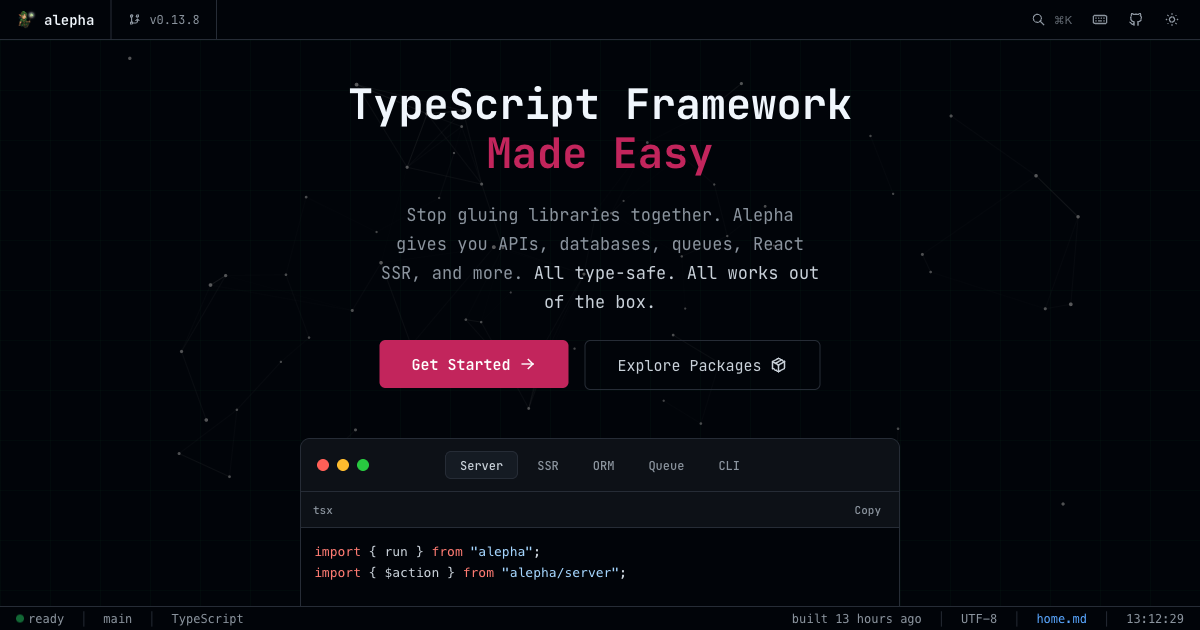
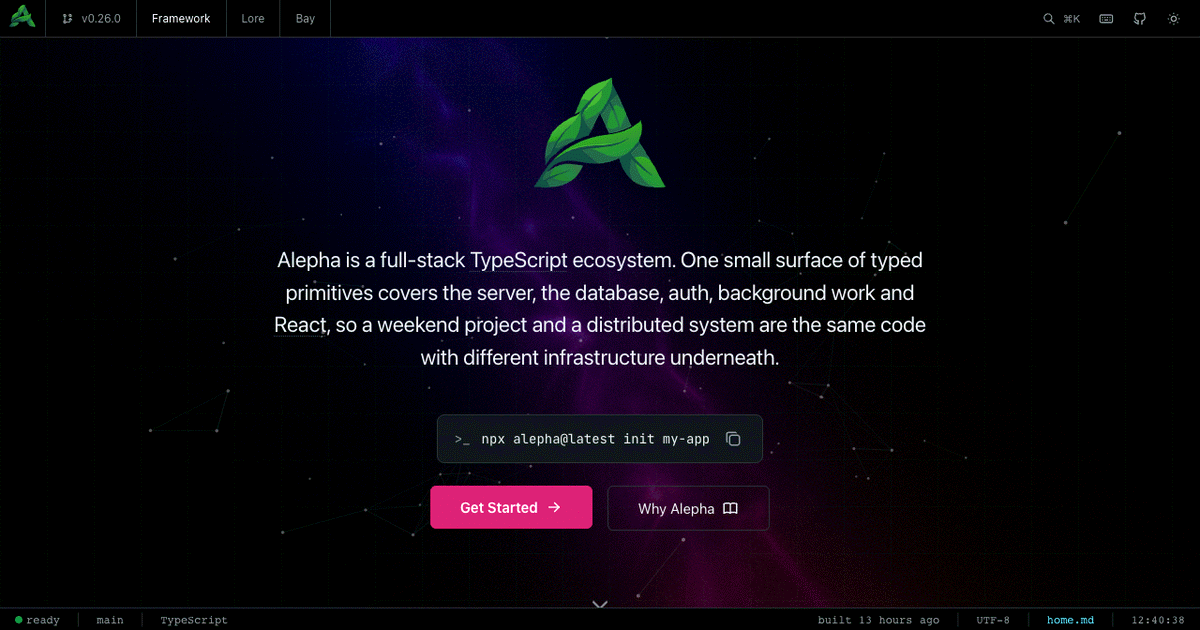
docs: refresh the public surfaces the site rework left behind
The front page changed what Alepha is; nothing that describes it from the
outside followed.

**One tagline.** There were five in circulation: the README said "One
full-stack TypeScript framework. No glue.", the hero said "ecosystem", the
introduction guide said "application engine", npm and GitHub still carried
the retired "Easy-to-use modern TypeScript framework for building many kind
of applications", and og-image.png had "TypeScript Framework Made Easy"
baked into it. All of them now read "A full-stack TypeScript ecosystem. No
glue." — ecosystem, because the nav has three products under it. The
`package.json` description feeds the generated packages page, hence the
change under docs/framework.

**One README, describing the current thing.** Both copies gain the three
products, the admin panel, service substitution and `platform up` — four of
the ten home-page blocks that had no mention anywhere outside the site — and
the Admin layer the architecture table was missing.

**og-image.png** was a screenshot of the v0.13.8 home page, complete with an
"Explore Packages" button that no longer exists. Retaken. Captured at
1280x672 rather than 1200x630 because the light pillar is gated at
`min-width: 1280px`, then downscaled; the ratio is identical.

**The Bay installer exists now.** The Bay page has been telling people to
run `curl -sSL https://alepha.dev/bay/install.sh | sh` against a URL that
404s, so the shell was being fed an HTML error page. `release.yml` already
[…]

diff --git a/apps/docs/src/AppRouter.tsx b/apps/docs/src/AppRouter.tsx
@@ -30,12 +30,16 @@ export class AppRouter {
   sitemap = $sitemap({ hostname: this.env.PUBLIC_URL });
 
   head = $head(() => {
-    const ogTitle = "Alepha — One full-stack TypeScript framework. No glue.";
+    // "ecosystem", not "framework": the nav has three products under it, and
+    // the hero says the same word. This string is the one social unfurlers and
+    // search results show, so it is the tagline that has to agree with the
+    // README, the npm description and the repository description.
+    const ogTitle = "Alepha | A full-stack TypeScript ecosystem. No glue.";
     const head: Head = {
       title: "Alepha",
       titleSeparator: " | ",
       description:
-        "Alepha is a full-stack TypeScript framework built for the agentic era — a clean rewrite of server, ORM, auth, queues, and React SSR for Node, Bun, and Cloudflare. No library glue.",
+        "Alepha is a full-stack TypeScript ecosystem built for the agentic era: a clean rewrite of server, ORM, auth, queues, and React SSR for Node, Bun, and Cloudflare. No library glue.",
       image: `${this.env.PUBLIC_URL}/og-image.png`,
       siteName: "Alepha",
       locale: "en_US",
@@ -70,10 +74,24 @@ export class AppRouter {
           href: "/apple-touch-icon.png",
         },
       ],
+      // One `theme-color` per scheme, so the phone's address bar matches the
+      // page it is framing instead of guessing. Both values are `--color-bg`
+      // from `variables.css`; the dark one is also `background_color` /
+      // `theme_color` in `public/manifest.json`, which has no light variant to
+      // give it. Keep all three in step.
+      //
+      // These were a single `#1a1a2e` for a long time — a colour from a
+      // palette this site no longer uses, which appears in no stylesheet.
       meta: [
         {
           name: "theme-color",
-          content: "#1a1a2e",
+          content: "#ffffff",
+          media: "(prefers-color-scheme: light)",
+        },
+        {
+          name: "theme-color",
+          content: "#010409",
+          media: "(prefers-color-scheme: dark)",
         },
       ],
     };
@@ -124,7 +142,7 @@ export class AppRouter {
     label: "Home",
     static: true,
     head: () => ({
-      title: "One full-stack TypeScript framework. No glue.",
+      title: "A full-stack TypeScript ecosystem. No glue.",
     }),
   });
 

diff --git a/apps/docs/scripts/check-docs.ts b/apps/docs/scripts/check-docs.ts
@@ -43,8 +43,14 @@ export class CheckDocsCommand {
 
   /**
    * Documentation that lives outside `docs/`, in reach order: the repository
-   * front page, the page npm renders, and the template an AI assistant is
-   * handed when a project is scaffolded.
+   * front page, the page npm renders, and the framework brief an AI assistant
+   * reads out of `node_modules` — `release.yml` copies that last one to
+   * `packages/alepha/AGENTS.md` and `CLAUDE.md` on the way to the registry.
+   *
+   * Not to be confused with `cli/core/templates/agentMd.ts`, which is the
+   * per-project brief `alepha init` writes into a scaffolded app. Different
+   * document, different audience, and being a `.ts` file it is out of reach
+   * of this check.
    */
   protected readonly extraDocs = [
     "README.md",

diff --git a/README.md b/README.md
@@ -9,7 +9,7 @@
 />
 Alepha
 </h1>
-<p>One full-stack TypeScript framework. No glue.</p>
+<p>A full-stack TypeScript ecosystem. No glue.</p>
 <a href="https://www.npmjs.com/package/alepha"><img src="https://img.shields.io/npm/v/alepha.svg" alt="npm version"/></a>
 <a href="https://www.npmjs.com/package/alepha"><img src="https://img.shields.io/npm/l/alepha.svg" alt="license"/></a>
 <a href="https://codecov.io/gh/feunard/alepha"><img src="https://codecov.io/gh/feunard/alepha/graph/badge.svg?token=ZDLWI514CP" alt="coverage"/></a>
@@ -18,20 +18,30 @@ Alepha
 
 ## What is Alepha?
 
-Alepha is a full-stack TypeScript framework built for the agentic era.
+Alepha is a full-stack TypeScript ecosystem built for the agentic era.
 
 Everything between your code and the runtime (HTTP server, routing, auth, queues, storage, jobs, SSR) is rewritten clean and integrated for Node, Bun, and Cloudflare Workers. Two load-bearing layers are deliberately *not* reinvented: **React** for UI and **Drizzle** for SQL. No library glue, no config sprawl: one small, consistent surface of typed primitives.
 
-That small surface is the point. AI coding agents (Claude Code, Codex) work best against a narrow, predictable API, so they generate predictable, consistent code you can actually review.
+One small surface covers the server, the database, auth, background work and React, so a weekend project and a distributed system are the same code with different infrastructure underneath.
 
 - **One schema, everywhere**: database, API validation, TypeScript types and React forms, all from one definition
 - **One surface**: every feature is a typed `$primitive`. No third-party glue to wire up or keep in sync
 - **Multi-runtime**: the same code runs on Node, Bun, and Cloudflare Workers
 - **Deploy anywhere**: Cloudflare, Vercel, Docker, bare metal
 
+## Three products, one repository
+
+Everything below is MIT, and all of it is developed in this repository. Lore and Bay are not demos: they are the applications that keep the framework honest, and a fix that surfaces while building them lands in the same commit.
+
+| | | |
+|---|---|---|
+| **Alepha Framework** | The framework itself, on npm as [`alepha`](https://www.npmjs.com/package/alepha) | [alepha.dev](https://alepha.dev) |
+| **Alepha Lore** | Project management, for agents too: quests, folios, feedback and crash telemetry, every one of them readable and writable over MCP | [alepha.dev/lore](https://alepha.dev/lore) |
+| **Alepha Bay** | A self-hosted application server. One small Go binary that gives an Alepha app TLS, backups and process isolation on a machine you own | [alepha.dev/bay](https://alepha.dev/bay) |
+
 ## Architecture
 
-Each layer builds on the previous. Use only what you need.
+Each layer builds on the previous. Use only what you need: Foundation alone is enough for a CLI tool.
 
 | Layer          | Description | Primitives                                              |
 |----------------|-------------|---------------------------------------------------------|
@@ -39,6 +49,7 @@ Each layer builds on the previous. Use only what you need.
 | **Backend**    | Database, storage, API | `$entity`, `$relations`, `$repository`, `$action`, `$storage` |
 | **Frontend**   | React with SSR, routing, i18n | `$page`, `$head`, `$atom`, `$dictionary`                |
 | **Platform**   | Users, auth, jobs, audits | `$realm`, `$job`, `$audit`, `$notification`             |
+| **Admin**      | Admin panel and auth UI | `$pageAdmin`, `$pageAccount`, `$pageNav`                |
 
 ## Built for agents
 
@@ -101,6 +112,59 @@ export class AppRouter {
 
 The `Api` class is the only contract. `$client<Api>()` derives every call site from it. Change a handler's return type and the page stops compiling.
 
+## The admin panel you did not build
+
+Users, roles, sessions, API keys, connected apps, an audit trail, every `$job` with its schedule and its last run, and runtime configuration editable from the browser with history and a factory reset. Sign-in, registration and password reset are generated from the realm settings.
+
+It comes from declaring `$realm` and mounting the admin pages, in both light and dark. Screenshots on [alepha.dev](https://alepha.dev/#admin).
+
+## Swap anything, even time
+
+Nothing in the framework is sealed. Every provider is a class in the container, so a test replaces the one it does not want and leaves the rest running for real. There are 14 `Memory*Provider` classes for the I/O-bound ones, and the clock is one of them.
+
+```ts
+const alepha = Alepha.create()
+  .with({ provide: EmailProvider, use: MemoryEmailProvider });
+
+const email = alepha.inject(MemoryEmailProvider);
+const time = alepha.inject(DateTimeProvider);
+await alepha.start();
+
+await time.travel([1, "day"]);
+
+expect(email.records).toHaveLength(1);
+```
+
+Cron is anchored to the same clock, so the scheduled `$job` runs during the jump. The test does not wait, and the mail never left the process.
+
+## Deploy with one command
+
+Declare an environment, and `alepha platform up` authenticates, provisions what does not exist yet, builds, runs migrations, deploys and pushes secrets, in that order. The database, the bucket and the queue are not yours to create, and neither is the pipeline that would have created them.
+
+```ts
+// alepha.config.ts
+export default defineConfig({
+  plugins: [
+    platform({
+      environments: {
+        production: {
+          adapter: "cloudflare",
+          domain: "lore.alepha.dev",
+        },
+        staging: {
+          adapter: "bay",
+          host: "deploy@bay.example.com",
+        },
+      },
+    }),
+  ],
+});
+```
+
+```bash
+alepha platform up --env production
+```
+
 ## Getting Started
 
 Requirements: [Node.js](https://nodejs.org/) 22+ or [Bun](https://bun.sh/) 1.3+
@@ -116,4 +180,5 @@ Every project gets the same structure, with no flavours to choose between.
 
 - [Documentation](https://alepha.dev)
 - [llms.txt](https://alepha.dev/llms.txt) for AI assistants
+- [Contributing](https://github.com/feunard/alepha/blob/main/.github/CONTRIBUTING.md)
 - [GitHub](https://github.com/feunard/alepha)

diff --git a/packages/alepha/README.md b/packages/alepha/README.md
@@ -9,7 +9,7 @@
 />
 Alepha
 </h1>
-<p>One full-stack TypeScript framework. No glue.</p>
+<p>A full-stack TypeScript ecosystem. No glue.</p>
 <a href="https://www.npmjs.com/package/alepha"><img src="https://img.shields.io/npm/v/alepha.svg" alt="npm version"/></a>
 <a href="https://www.npmjs.com/package/alepha"><img src="https://img.shields.io/npm/l/alepha.svg" alt="license"/></a>
 <a href="https://codecov.io/gh/feunard/alepha"><img src="https://codecov.io/gh/feunard/alepha/graph/badge.svg?token=ZDLWI514CP" alt="coverage"/></a>
@@ -18,20 +18,30 @@ Alepha
 
 ## What is Alepha?
 
-Alepha is a full-stack TypeScript framework built for the agentic era.
+Alepha is a full-stack TypeScript ecosystem built for the agentic era.
 
 Everything between your code and the runtime (HTTP server, routing, auth, queues, storage, jobs, SSR) is rewritten clean and integrated for Node, Bun, and Cloudflare Workers. Two load-bearing layers are deliberately *not* reinvented: **React** for UI and **Drizzle** for SQL. No library glue, no config sprawl: one small, consistent surface of typed primitives.
 
-That small surface is the point. AI coding agents (Claude Code, Codex) work best against a narrow, predictable API, so they generate predictable, consistent code you can actually review.
+One small surface covers the server, the database, auth, background work and React, so a weekend project and a distributed system are the same code with different infrastructure underneath.
 
 - **One schema, everywhere**: database, API validation, TypeScript types and React forms, all from one definition
 - **One surface**: every feature is a typed `$primitive`. No third-party glue to wire up or keep in sync
 - **Multi-runtime**: the same code runs on Node, Bun, and Cloudflare Workers
 - **Deploy anywhere**: Cloudflare, Vercel, Docker, bare metal
 
+## Three products, one repository
+
+Everything below is MIT, and all of it is developed in this repository. Lore and Bay are not demos: they are the applications that keep the framework honest, and a fix that surfaces while building them lands in the same commit.
+
+| | | |
+|---|---|---|
+| **Alepha Framework** | The framework itself, on npm as [`alepha`](https://www.npmjs.com/package/alepha) | [alepha.dev](https://alepha.dev) |
+| **Alepha Lore** | Project management, for agents too: quests, folios, feedback and crash telemetry, every one of them readable and writable over MCP | [alepha.dev/lore](https://alepha.dev/lore) |
+| **Alepha Bay** | A self-hosted application server. One small Go binary that gives an Alepha app TLS, backups and process isolation on a machine you own | [alepha.dev/bay](https://alepha.dev/bay) |
+
 ## Architecture
 
-Each layer builds on the previous. Use only what you need.
+Each layer builds on the previous. Use only what you need: Foundation alone is enough for a CLI tool.
 
 | Layer          | Description | Primitives                                              |
 |----------------|-------------|---------------------------------------------------------|
@@ -39,6 +49,7 @@ Each layer builds on the previous. Use only what you need.
 | **Backend**    | Database, storage, API | `$entity`, `$relations`, `$repository`, `$action`, `$storage` |
 | **Frontend**   | React with SSR, routing, i18n | `$page`, `$head`, `$atom`, `$dictionary`                |
 | **Platform**   | Users, auth, jobs, audits | `$realm`, `$job`, `$audit`, `$notification`             |
+| **Admin**      | Admin panel and auth UI | `$pageAdmin`, `$pageAccount`, `$pageNav`                |
 
 ## Built for agents
 
@@ -101,6 +112,59 @@ export class AppRouter {
 
 The `Api` class is the only contract. `$client<Api>()` derives every call site from it. Change a handler's return type and the page stops compiling.
 
+## The admin panel you did not build
+
+Users, roles, sessions, API keys, connected apps, an audit trail, every `$job` with its schedule and its last run, and runtime configuration editable from the browser with history and a factory reset. Sign-in, registration and password reset are generated from the realm settings.
+
+It comes from declaring `$realm` and mounting the admin pages, in both light and dark. Screenshots on [alepha.dev](https://alepha.dev/#admin).
+
+## Swap anything, even time
+
+Nothing in the framework is sealed. Every provider is a class in the container, so a test replaces the one it does not want and leaves the rest running for real. There are 14 `Memory*Provider` classes for the I/O-bound ones, and the clock is one of them.
+
+```ts
+const alepha = Alepha.create()
+  .with({ provide: EmailProvider, use: MemoryEmailProvider });
+
+const email = alepha.inject(MemoryEmailProvider);
+const time = alepha.inject(DateTimeProvider);
+await alepha.start();
+
+await time.travel([1, "day"]);
+
+expect(email.records).toHaveLength(1);
+```
+
+Cron is anchored to the same clock, so the scheduled `$job` runs during the jump. The test does not wait, and the mail never left the process.
+
+## Deploy with one command
+
+Declare an environment, and `alepha platform up` authenticates, provisions what does not exist yet, builds, runs migrations, deploys and pushes secrets, in that order. The database, the bucket and the queue are not yours to create, and neither is the pipeline that would have created them.
+
+```ts
+// alepha.config.ts
+export default defineConfig({
+  plugins: [
+    platform({
+      environments: {
+        production: {
+          adapter: "cloudflare",
+          domain: "lore.alepha.dev",
+        },
+        staging: {
+          adapter: "bay",
+          host: "deploy@bay.example.com",
+        },
+      },
+    }),
+  ],
+});
+```
+
+```bash
+alepha platform up --env production
+```
+
 ## Getting Started
 
 Requirements: [Node.js](https://nodejs.org/) 22+ or [Bun](https://bun.sh/) 1.3+
@@ -116,4 +180,5 @@ Every project gets the same structure, with no flavours to choose between.
 
 - [Documentation](https://alepha.dev)
 - [llms.txt](https://alepha.dev/llms.txt) for AI assistants
+- [Contributing](https://github.com/feunard/alepha/blob/main/.github/CONTRIBUTING.md)
 - [GitHub](https://github.com/feunard/alepha)

diff --git a/.github/CONTRIBUTING.md b/.github/CONTRIBUTING.md
@@ -22,7 +22,17 @@ yarn install
 yarn v
 ```
 
-The `yarn v` command runs: clean → lint → typecheck → test → build. If this passes, you're good.
+`yarn v` runs: clean → lint → typecheck → test → check:deps → check:i18n →
+check:migrations → build → e2e → clean. If it passes, you're good. It needs
+[Docker](https://www.docker.com/) running, for the Postgres, Redis, S3 and MQTT
+containers the integration tests use, and it should finish inside 10 minutes.
+
+Two narrower entry points, for when the full run is more than you need:
+
+| | |
+|---|---|
+| `yarn v --fast` | lint, then typecheck / test / the three audits in parallel. Skips the build and e2e. The one to use while iterating |
+| `yarn v:go` | the Go suite for `apps/bay`, in a container. **`yarn v` does not run it**, and the tests for the systemd half are `//go:build linux`, so a native `go test` on macOS compiles them and runs none. Run this if you touched `apps/bay` |
 
 ## Making Changes
 

diff --git a/.github/SUPPORT.md b/.github/SUPPORT.md
@@ -4,10 +4,12 @@
 
 Start here: [alepha.dev](https://alepha.dev)
 
-- [Getting Started](https://alepha.dev/guides/getting-started) — First steps
-- [Guides](https://alepha.dev/guides) — How to build things
-- [Concepts](https://alepha.dev/concepts) — How Alepha works
-- [API Reference](https://alepha.dev/packages) — Package documentation
+- [Getting Started](https://alepha.dev/docs/guides-getting-started) — First steps
+- [Introduction](https://alepha.dev/docs/guides-introduction) — What Alepha is, and why
+- [CLI](https://alepha.dev/docs/cli-installation) — The `alepha` command
+- [Primitives Reference](https://alepha.dev/docs/reference-primitives-%24action) — Every `$primitive`
+- [Packages](https://alepha.dev/docs/packages-alepha-server-core) — Module documentation
+- [llms.txt](https://alepha.dev/llms.txt) — The machine-readable index, for AI assistants
 
 ## Asking Questions
 

diff --git a/docs/framework/3-packages/1-alepha/core.md b/docs/framework/3-packages/1-alepha/core.md
@@ -1,6 +1,6 @@
 # Alepha - Core
 
-Easy-to-use modern TypeScript framework for building many kind of applications.
+A full-stack TypeScript ecosystem. No glue.
 
 ## Installation
 
